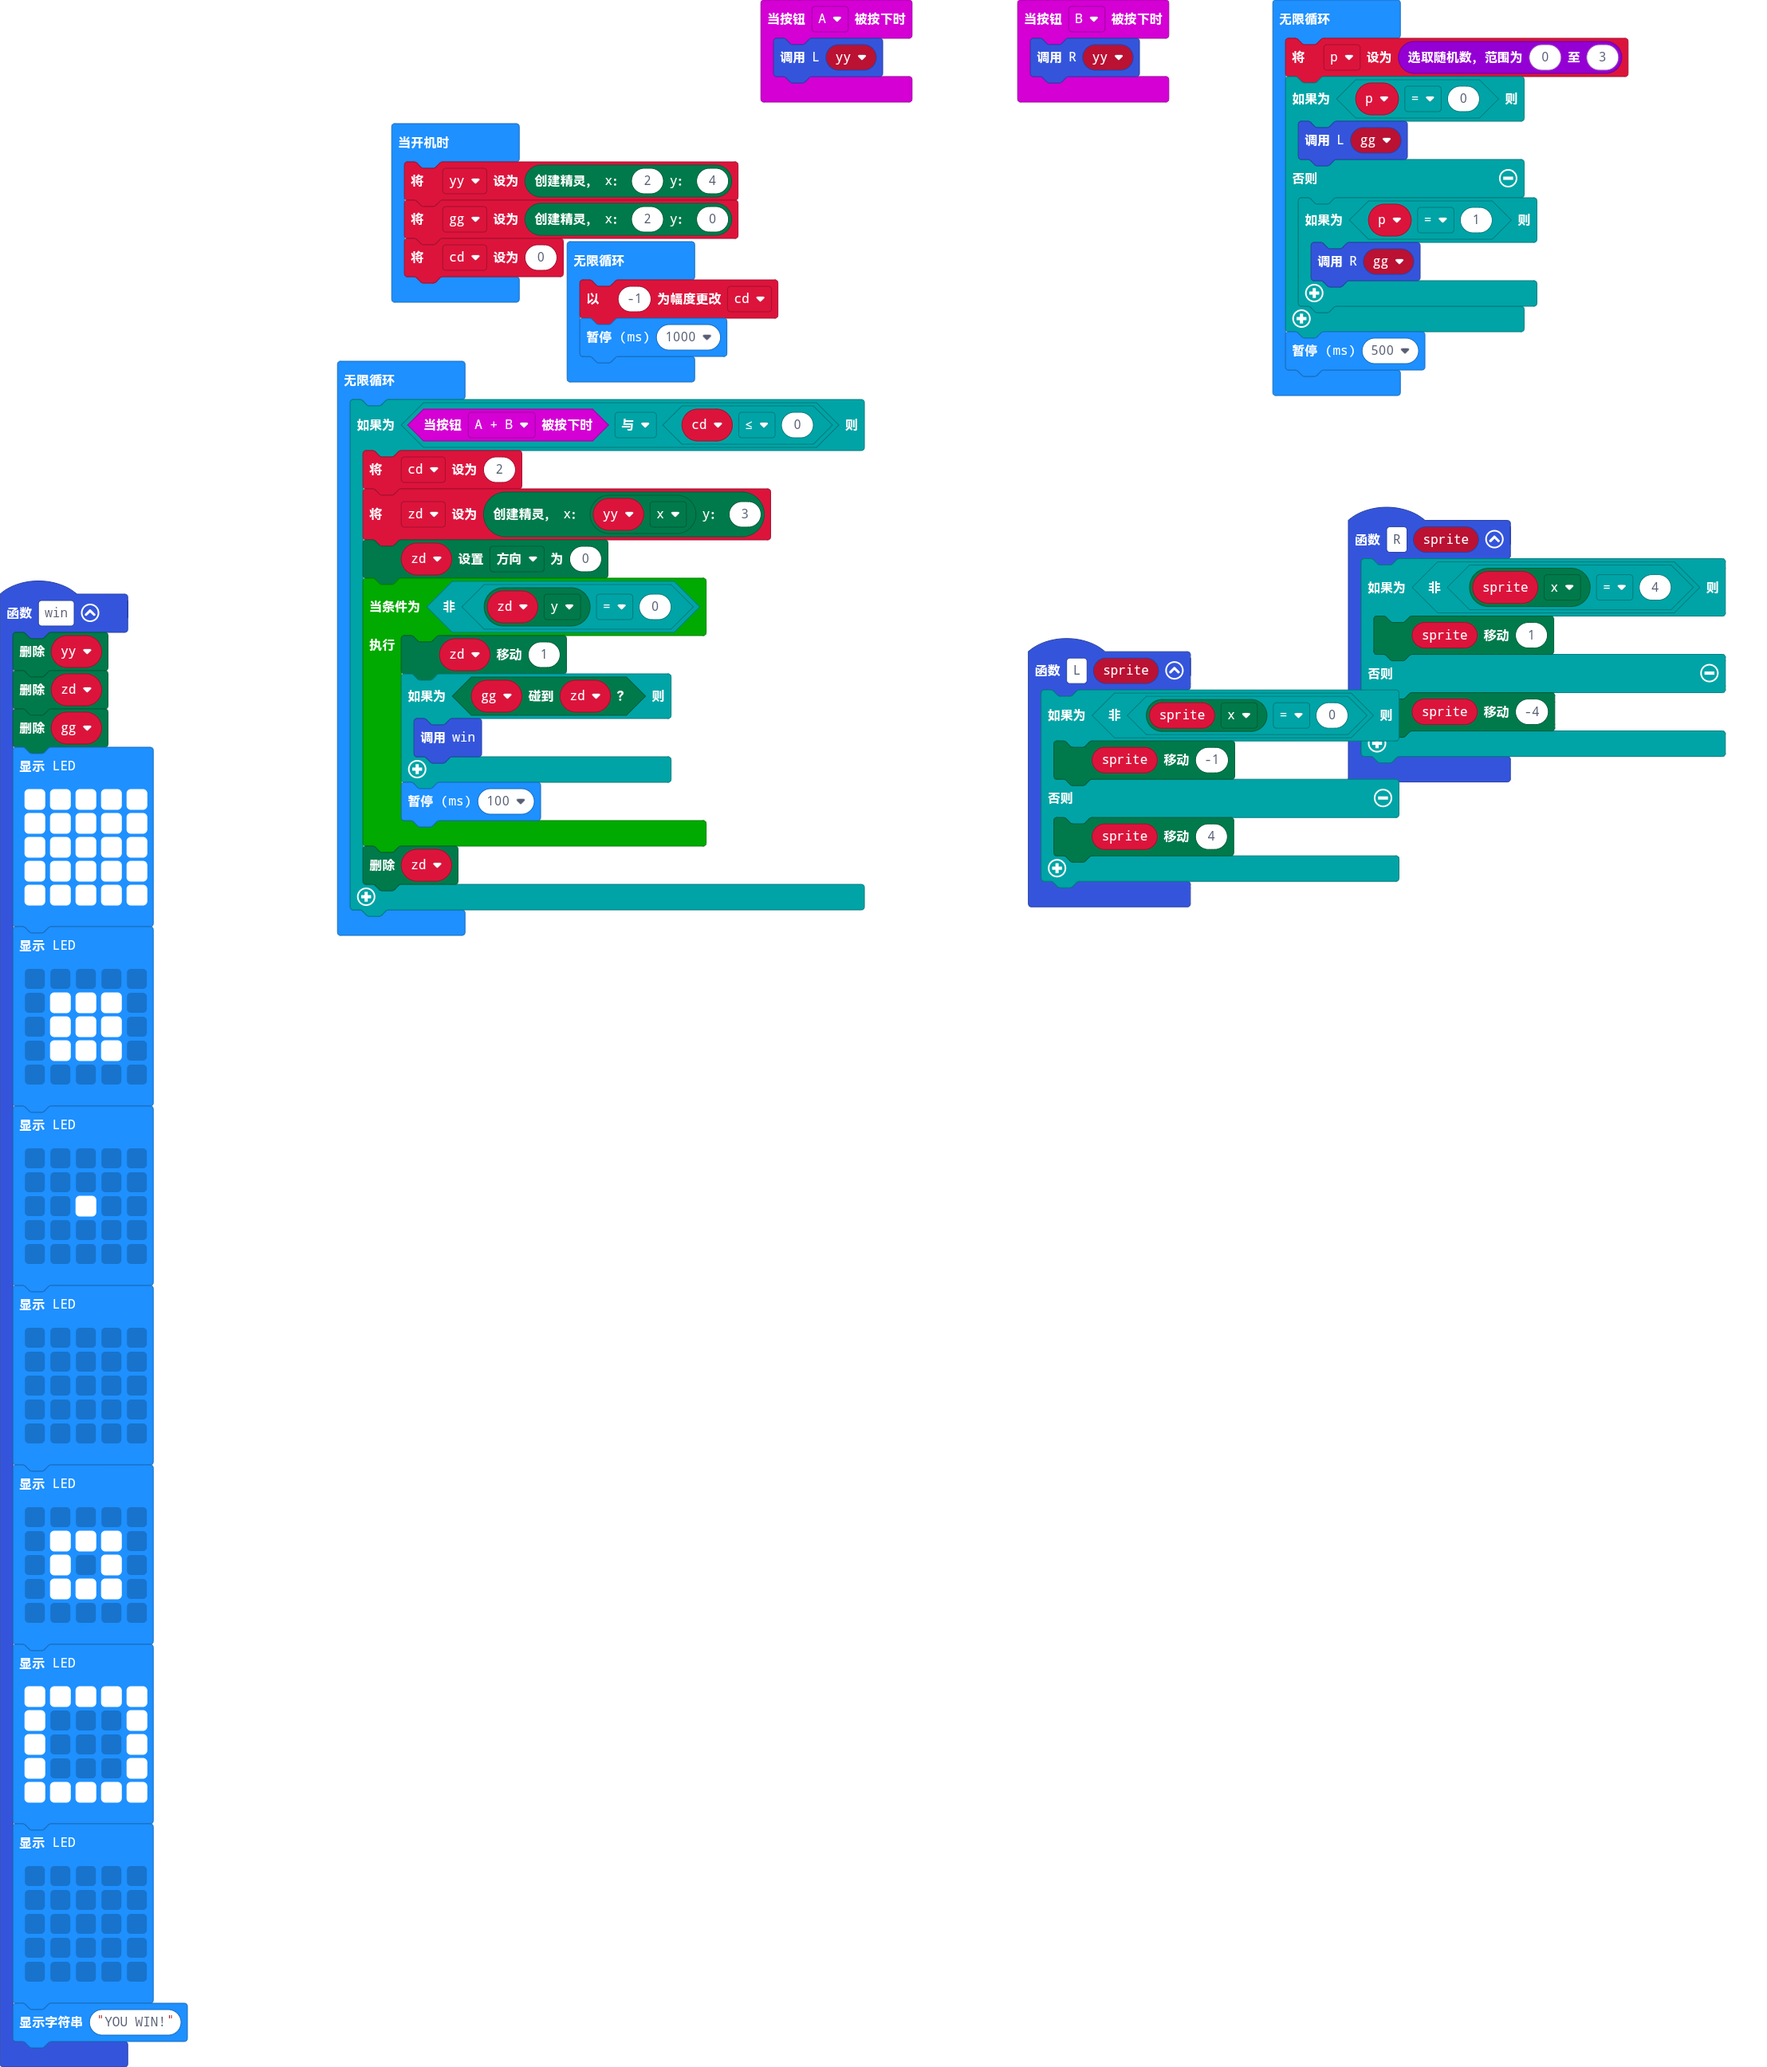
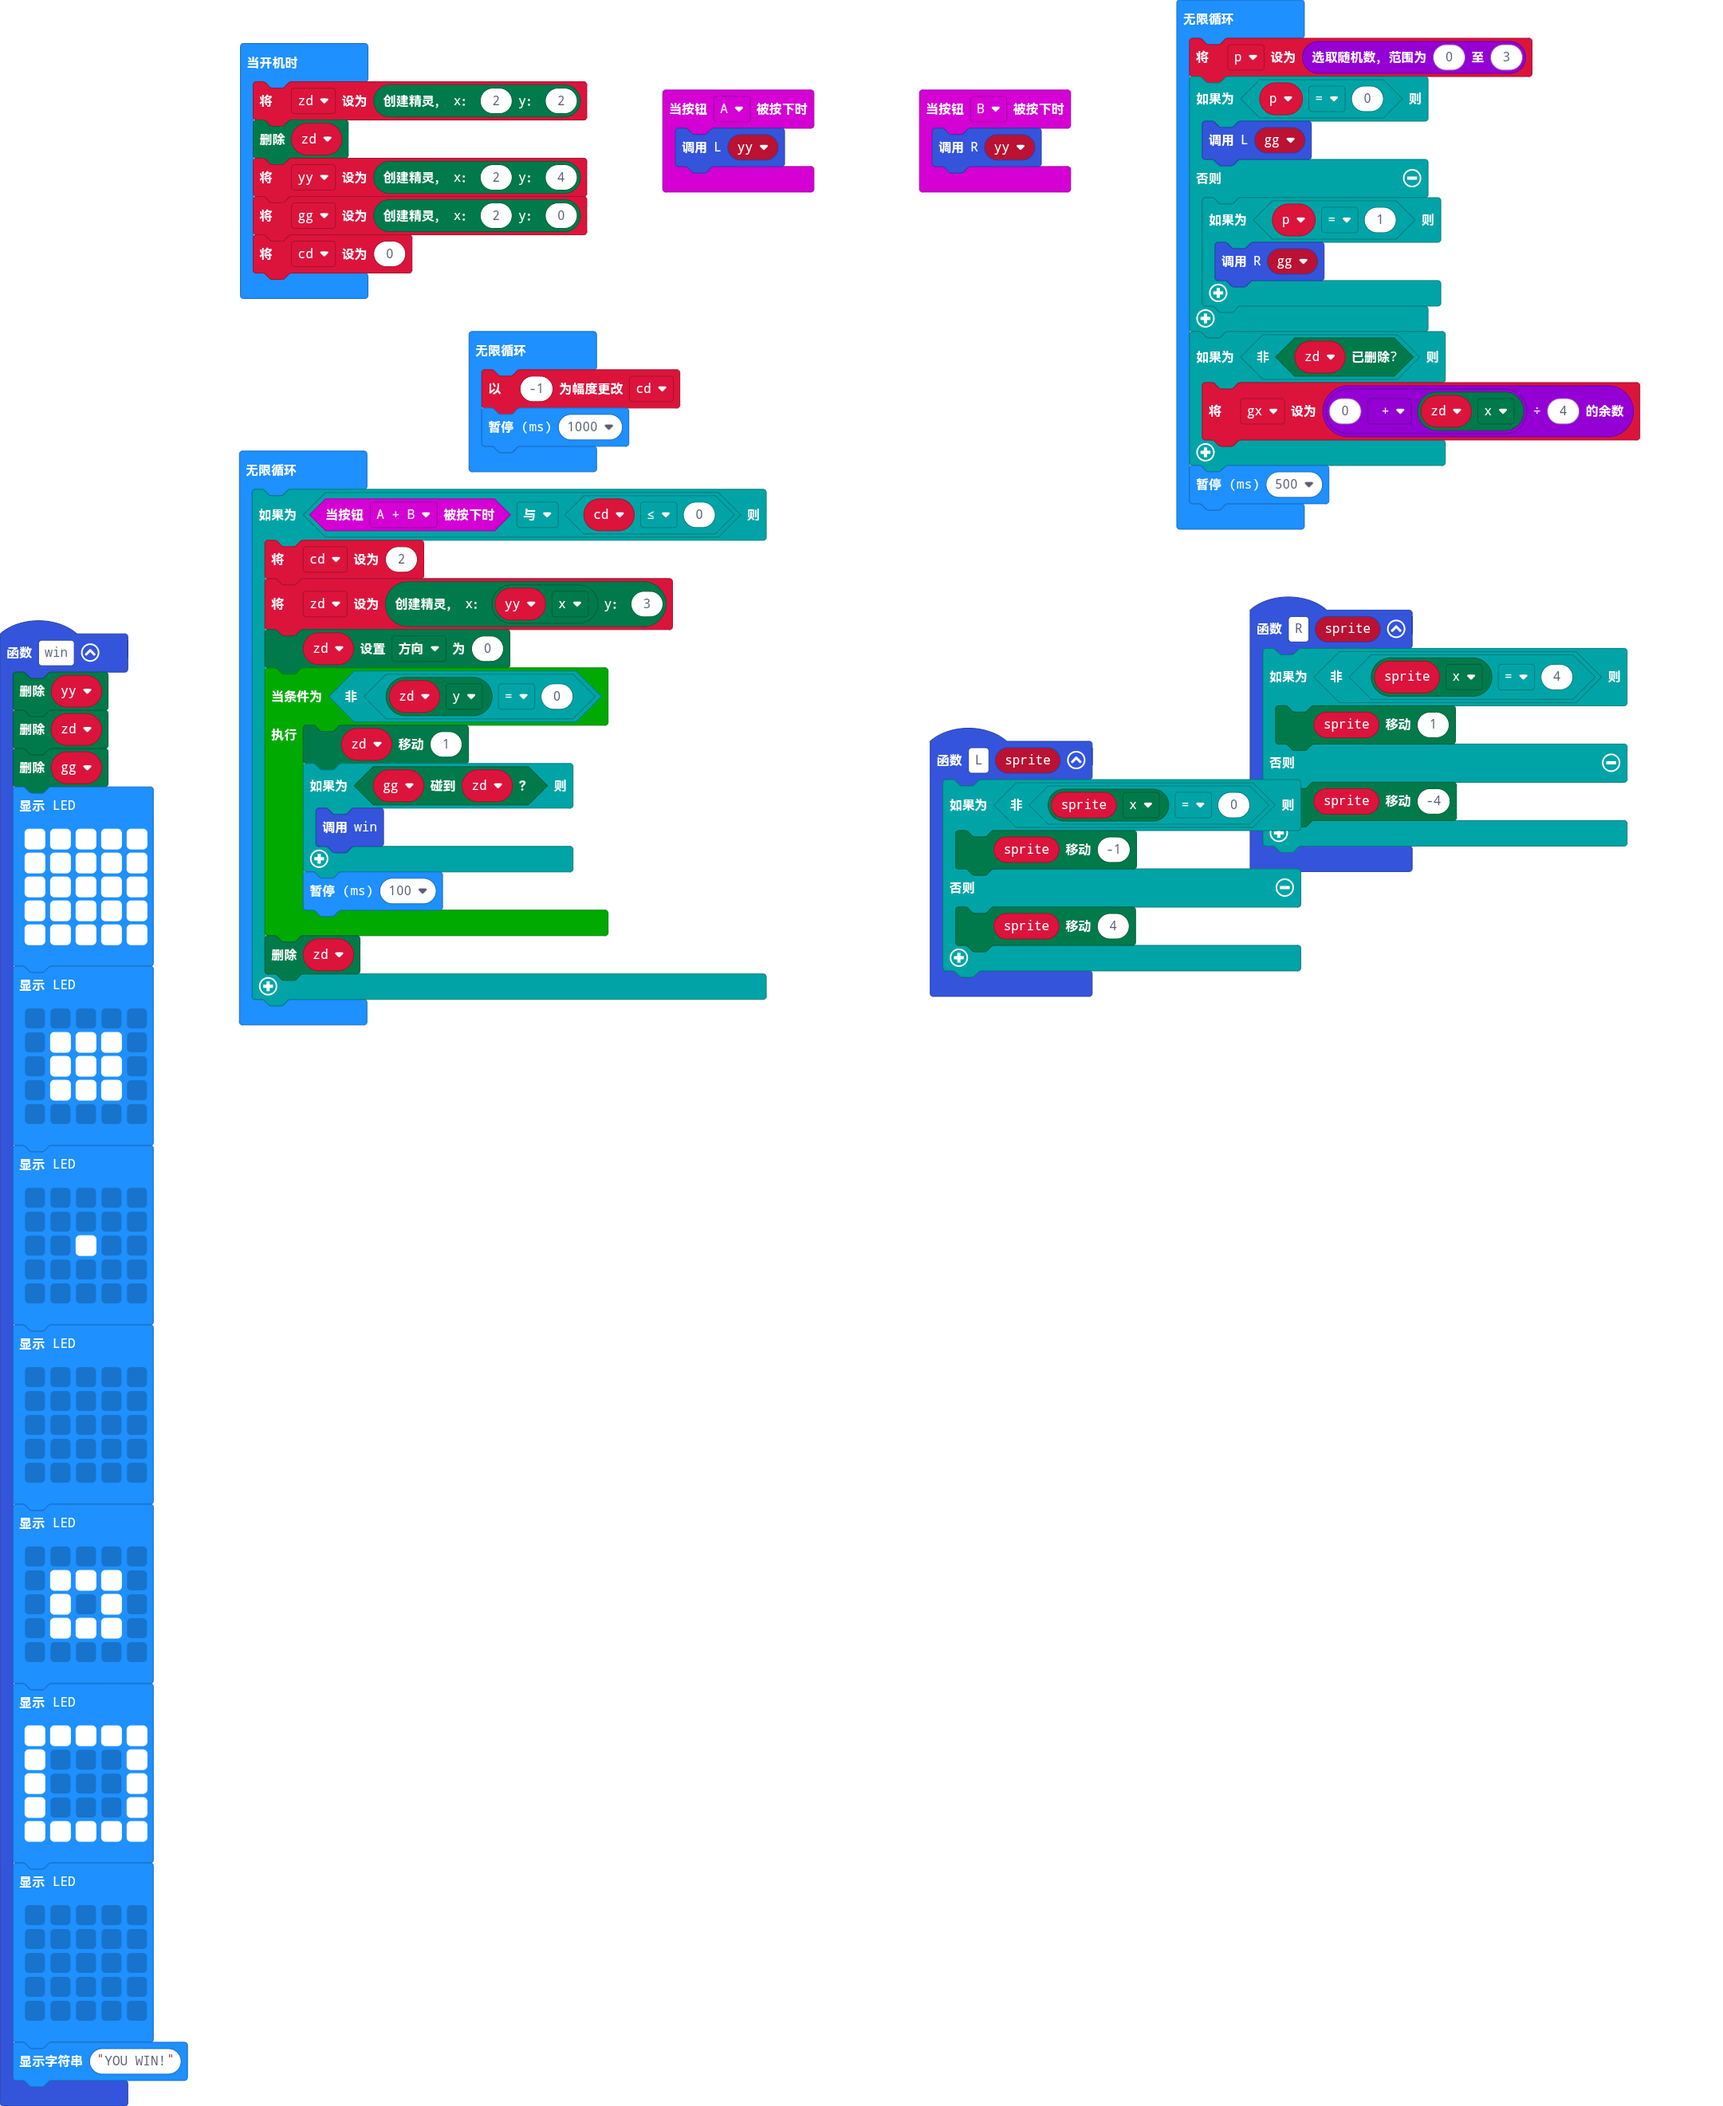
更新 main.blocks, main.ts

Changed region(s): [[0.124, 0.0, 0.9921, 0.5], [0.0, 0.2812, 0.124, 1.0]]

diff --git a/main.ts b/main.ts
@@ -73,10 +73,13 @@ function R (sprite: game.LedSprite) {
         sprite.move(-4)
     }
 }
+let gx = 0
 let p = 0
-let zd: game.LedSprite = null
 let gg: game.LedSprite = null
 let yy: game.LedSprite = null
+let zd: game.LedSprite = null
+zd = game.createSprite(2, 2)
+zd.delete()
 yy = game.createSprite(2, 4)
 gg = game.createSprite(2, 0)
 let cd = 0
@@ -88,6 +91,9 @@ basic.forever(function () {
         if (p == 1) {
             R(gg)
         }
+    }
+    if (!(zd.isDeleted())) {
+        gx = (0 + zd.get(LedSpriteProperty.X)) % 4
     }
     basic.pause(500)
 })
